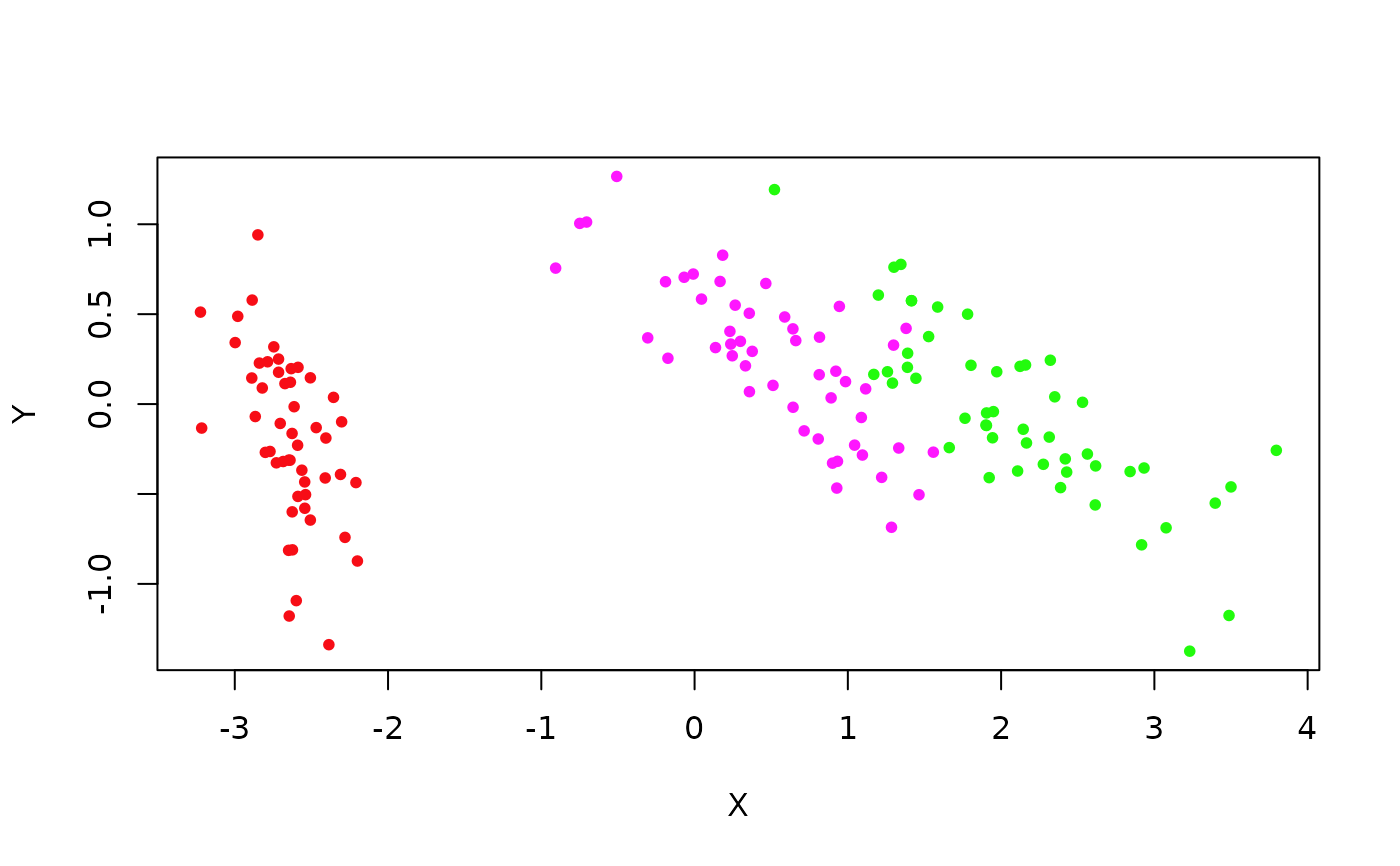
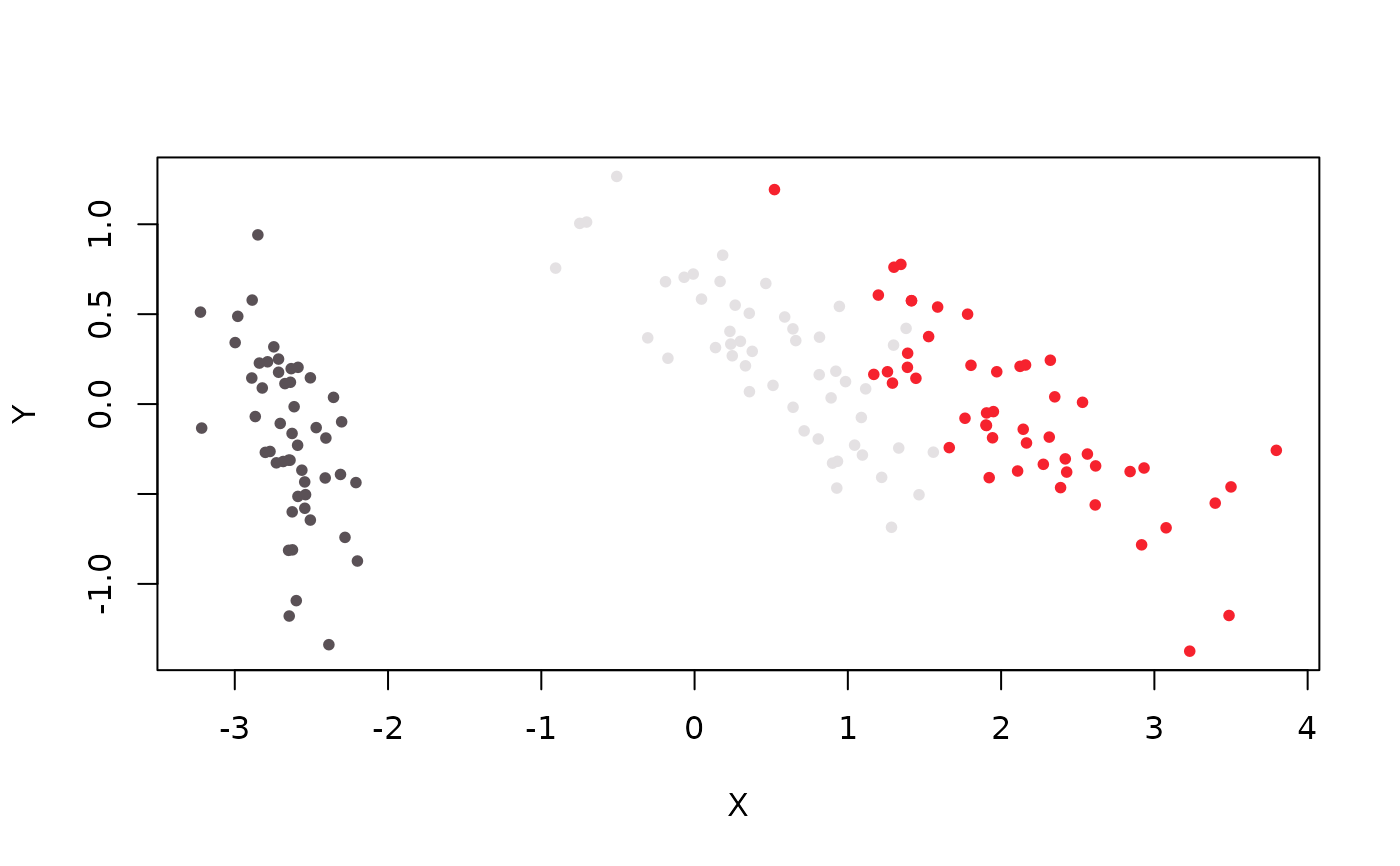
Deploying to gh-pages from @ jlmelville/vizier@58cf753278a7418b956638d76fe247fd6b82883b 🚀

diff --git a/authors.html b/authors.html
@@ -7,7 +7,7 @@
 
     <a class="navbar-brand me-2" href="index.html">vizier</a>
 
-    <small class="nav-text text-muted me-auto" data-bs-toggle="tooltip" data-bs-placement="bottom" title="">0.6.0</small>
+    <small class="nav-text text-muted me-auto" data-bs-toggle="tooltip" data-bs-placement="bottom" title="">0.6.1</small>
 
 
     <button class="navbar-toggler" type="button" data-bs-toggle="collapse" data-bs-target="#navbar" aria-controls="navbar" aria-expanded="false" aria-label="Toggle navigation">
@@ -47,13 +47,13 @@
 
       <p>Melville J (2026).
 <em>vizier: Visualization of 2D Datasets in R</em>.
-R package version 0.6.0, <a href="https://github.com/jlmelville/vizier" class="external-link">https://github.com/jlmelville/vizier</a>.
+R package version 0.6.1, <a href="https://github.com/jlmelville/vizier" class="external-link">https://github.com/jlmelville/vizier</a>.
 </p>
       <pre>@Manual{,
   title = {vizier: Visualization of 2D Datasets in R},
   author = {James Melville},
   year = {2026},
-  note = {R package version 0.6.0},
+  note = {R package version 0.6.1},
   url = {https://github.com/jlmelville/vizier},
 }</pre>
     </div>

diff --git a/news/index.html b/news/index.html
@@ -7,7 +7,7 @@
 
     <a class="navbar-brand me-2" href="../index.html">vizier</a>
 
-    <small class="nav-text text-muted me-auto" data-bs-toggle="tooltip" data-bs-placement="bottom" title="">0.6.0</small>
+    <small class="nav-text text-muted me-auto" data-bs-toggle="tooltip" data-bs-placement="bottom" title="">0.6.1</small>
 
 
     <button class="navbar-toggler" type="button" data-bs-toggle="collapse" data-bs-target="#navbar" aria-controls="navbar" aria-expanded="false" aria-label="Toggle navigation">
@@ -33,6 +33,10 @@
       <small>Source: <a href="https://github.com/jlmelville/vizier/blob/master/NEWS.md" class="external-link"><code>NEWS.md</code></a></small>
     </div>
 
+    <div class="section level2">
+<h2 class="pkg-version" data-toc-text="0.6.1" id="vizier-061">vizier 0.6.1<a class="anchor" aria-label="anchor" href="#vizier-061"></a></h2>
+<p><em>July 4 2026</em>: use the <code>Polychrome 36</code> palette as the default categorical palette. This will prevent the default categorical palettes changing color when you don’t set the seed right before calling <code>embed_plot</code>. Also should prevent a sporadic “In sweep(<a href="mailto:luv@coords" class="email">luv@coords</a>, 2, y0,”-“) : STATS is longer than the extent of ‘dim(x)[MARGIN]’” warning that comes from the <code>Polychrome</code> package.</p>
+</div>
     <div class="section level2">
 <h2 class="pkg-version" data-toc-text="0.6.0" id="vizier-060">vizier 0.6.0<a class="anchor" aria-label="anchor" href="#vizier-060"></a></h2>
 <p><em>July 2 2026</em>: General housekeeping and fixed some palette bugs. Plotly support stopped working at some point probably due to the palette bugs, but is now working again. However, it is now an optional dependency, so <code>install.packages("plotly")</code> if you want to use it.</p>

diff --git a/404.html b/404.html
@@ -20,7 +20,7 @@
 
     <a class="navbar-brand me-2" href="https://jlmelville.github.io/vizier/index.html">vizier</a>
 
-    <small class="nav-text text-muted me-auto" data-bs-toggle="tooltip" data-bs-placement="bottom" title="">0.6.0</small>
+    <small class="nav-text text-muted me-auto" data-bs-toggle="tooltip" data-bs-placement="bottom" title="">0.6.1</small>
 
 
     <button class="navbar-toggler" type="button" data-bs-toggle="collapse" data-bs-target="#navbar" aria-controls="navbar" aria-expanded="false" aria-label="Toggle navigation">

diff --git a/articles/color-schemes.html b/articles/color-schemes.html
@@ -20,7 +20,7 @@
 
     <a class="navbar-brand me-2" href="../index.html">vizier</a>
 
-    <small class="nav-text text-muted me-auto" data-bs-toggle="tooltip" data-bs-placement="bottom" title="">0.6.0</small>
+    <small class="nav-text text-muted me-auto" data-bs-toggle="tooltip" data-bs-placement="bottom" title="">0.6.1</small>
 
 
     <button class="navbar-toggler" type="button" data-bs-toggle="collapse" data-bs-target="#navbar" aria-controls="navbar" aria-expanded="false" aria-label="Toggle navigation">

diff --git a/articles/getting-started.html b/articles/getting-started.html
@@ -20,7 +20,7 @@
 
     <a class="navbar-brand me-2" href="../index.html">vizier</a>
 
-    <small class="nav-text text-muted me-auto" data-bs-toggle="tooltip" data-bs-placement="bottom" title="">0.6.0</small>
+    <small class="nav-text text-muted me-auto" data-bs-toggle="tooltip" data-bs-placement="bottom" title="">0.6.1</small>
 
 
     <button class="navbar-toggler" type="button" data-bs-toggle="collapse" data-bs-target="#navbar" aria-controls="navbar" aria-expanded="false" aria-label="Toggle navigation">

diff --git a/articles/index.html b/articles/index.html
@@ -7,7 +7,7 @@
 
     <a class="navbar-brand me-2" href="../index.html">vizier</a>
 
-    <small class="nav-text text-muted me-auto" data-bs-toggle="tooltip" data-bs-placement="bottom" title="">0.6.0</small>
+    <small class="nav-text text-muted me-auto" data-bs-toggle="tooltip" data-bs-placement="bottom" title="">0.6.1</small>
 
 
     <button class="navbar-toggler" type="button" data-bs-toggle="collapse" data-bs-target="#navbar" aria-controls="navbar" aria-expanded="false" aria-label="Toggle navigation">

diff --git a/index.html b/index.html
@@ -22,7 +22,7 @@
 
     <a class="navbar-brand me-2" href="index.html">vizier</a>
 
-    <small class="nav-text text-muted me-auto" data-bs-toggle="tooltip" data-bs-placement="bottom" title="">0.6.0</small>
+    <small class="nav-text text-muted me-auto" data-bs-toggle="tooltip" data-bs-placement="bottom" title="">0.6.1</small>
 
 
     <button class="navbar-toggler" type="button" data-bs-toggle="collapse" data-bs-target="#navbar" aria-controls="navbar" aria-expanded="false" aria-label="Toggle navigation">

diff --git a/reference/embed_plot.html b/reference/embed_plot.html
@@ -9,7 +9,7 @@ color."></head><body>
 
     <a class="navbar-brand me-2" href="../index.html">vizier</a>
 
-    <small class="nav-text text-muted me-auto" data-bs-toggle="tooltip" data-bs-placement="bottom" title="">0.6.0</small>
+    <small class="nav-text text-muted me-auto" data-bs-toggle="tooltip" data-bs-placement="bottom" title="">0.6.1</small>
 
 
     <button class="navbar-toggler" type="button" data-bs-toggle="collapse" data-bs-target="#navbar" aria-controls="navbar" aria-expanded="false" aria-label="Toggle navigation">

diff --git a/reference/embed_plotly.html b/reference/embed_plotly.html
@@ -9,7 +9,7 @@ color, using Plotly."></head><body>
 
     <a class="navbar-brand me-2" href="../index.html">vizier</a>
 
-    <small class="nav-text text-muted me-auto" data-bs-toggle="tooltip" data-bs-placement="bottom" title="">0.6.0</small>
+    <small class="nav-text text-muted me-auto" data-bs-toggle="tooltip" data-bs-placement="bottom" title="">0.6.1</small>
 
 
     <button class="navbar-toggler" type="button" data-bs-toggle="collapse" data-bs-target="#navbar" aria-controls="navbar" aria-expanded="false" aria-label="Toggle navigation">

diff --git a/reference/index.html b/reference/index.html
@@ -7,7 +7,7 @@
 
     <a class="navbar-brand me-2" href="../index.html">vizier</a>
 
-    <small class="nav-text text-muted me-auto" data-bs-toggle="tooltip" data-bs-placement="bottom" title="">0.6.0</small>
+    <small class="nav-text text-muted me-auto" data-bs-toggle="tooltip" data-bs-placement="bottom" title="">0.6.1</small>
 
 
     <button class="navbar-toggler" type="button" data-bs-toggle="collapse" data-bs-target="#navbar" aria-controls="navbar" aria-expanded="false" aria-label="Toggle navigation">

diff --git a/reference/turbo.html b/reference/turbo.html
@@ -7,7 +7,7 @@
 
     <a class="navbar-brand me-2" href="../index.html">vizier</a>
 
-    <small class="nav-text text-muted me-auto" data-bs-toggle="tooltip" data-bs-placement="bottom" title="">0.6.0</small>
+    <small class="nav-text text-muted me-auto" data-bs-toggle="tooltip" data-bs-placement="bottom" title="">0.6.1</small>
 
 
     <button class="navbar-toggler" type="button" data-bs-toggle="collapse" data-bs-target="#navbar" aria-controls="navbar" aria-expanded="false" aria-label="Toggle navigation">

diff --git a/news/index.md b/news/index.md
@@ -1,5 +1,14 @@
 # Changelog
 
+## vizier 0.6.1
+
+*July 4 2026*: use the `Polychrome 36` palette as the default
+categorical palette. This will prevent the default categorical palettes
+changing color when you don’t set the seed right before calling
+`embed_plot`. Also should prevent a sporadic “In sweep(<luv@coords>, 2,
+y0,”-“) : STATS is longer than the extent of ‘dim(x)\[MARGIN\]’” warning
+that comes from the `Polychrome` package.
+
 ## vizier 0.6.0
 
 *July 2 2026*: General housekeeping and fixed some palette bugs. Plotly